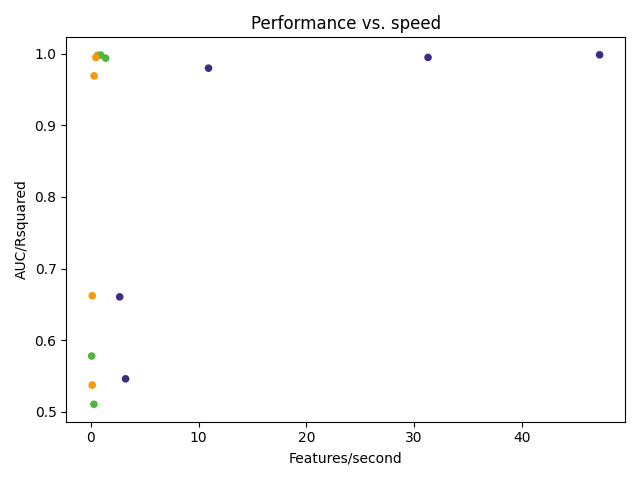
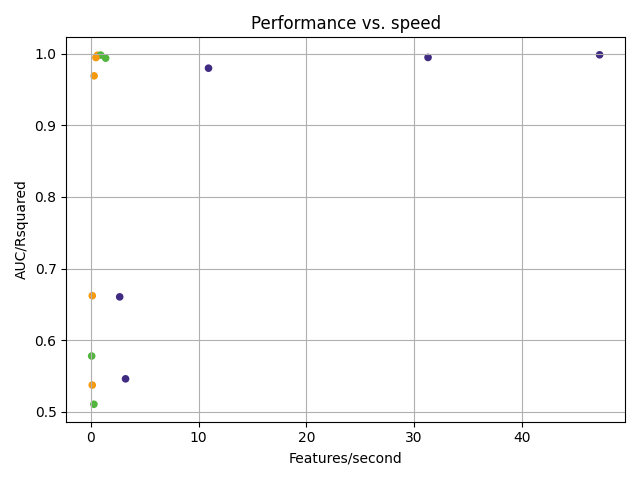
Add grid to scatterplot

diff --git a/comparisons/comparisons.py b/comparisons/comparisons.py
@@ -90,6 +90,8 @@ ax3 = sc_data.plot.scatter(x="features_per_second", y="auc/rsquared", c=col)
 #     offset = (0.001, 0.01)
 #     ax3.annotate(dat, (point[0] + offset[0], point[1] + offset[1]))
 
+ax3.grid(True)
+
 ax3.set_ylabel("AUC/Rsquared")
 ax3.set_xlabel("Features/second")
 ax3.set_title("Performance vs. speed")
